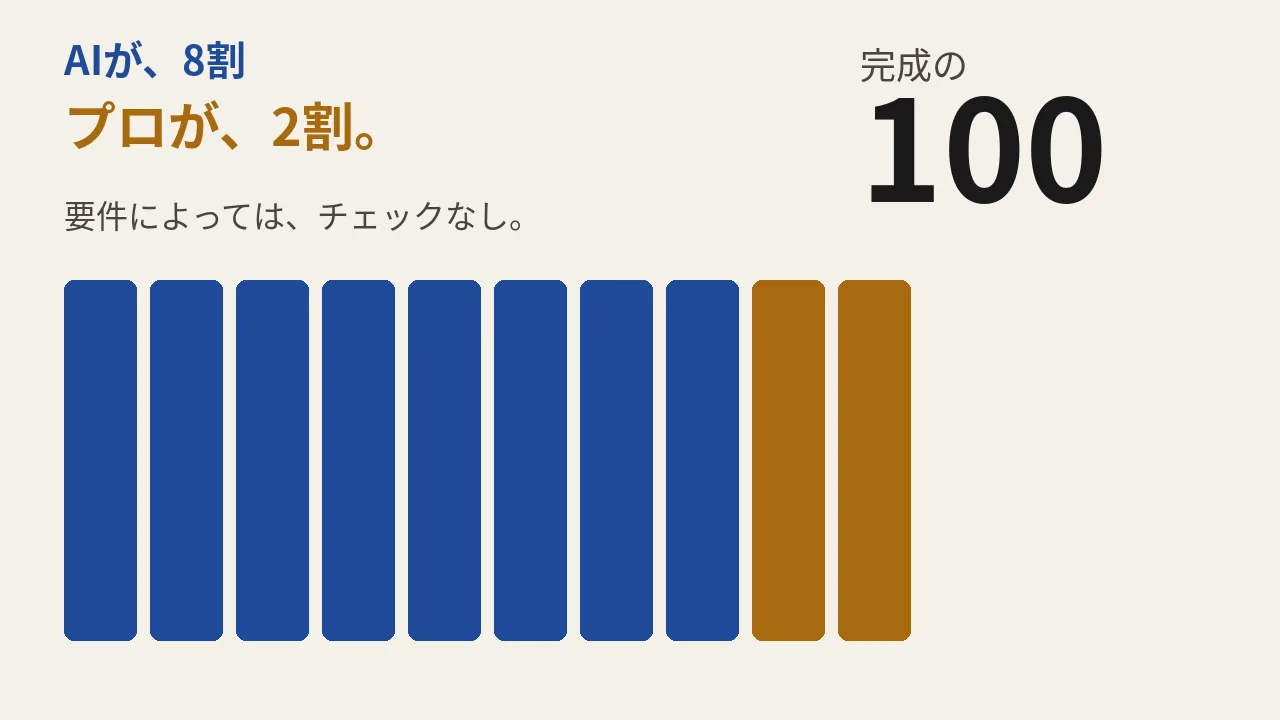
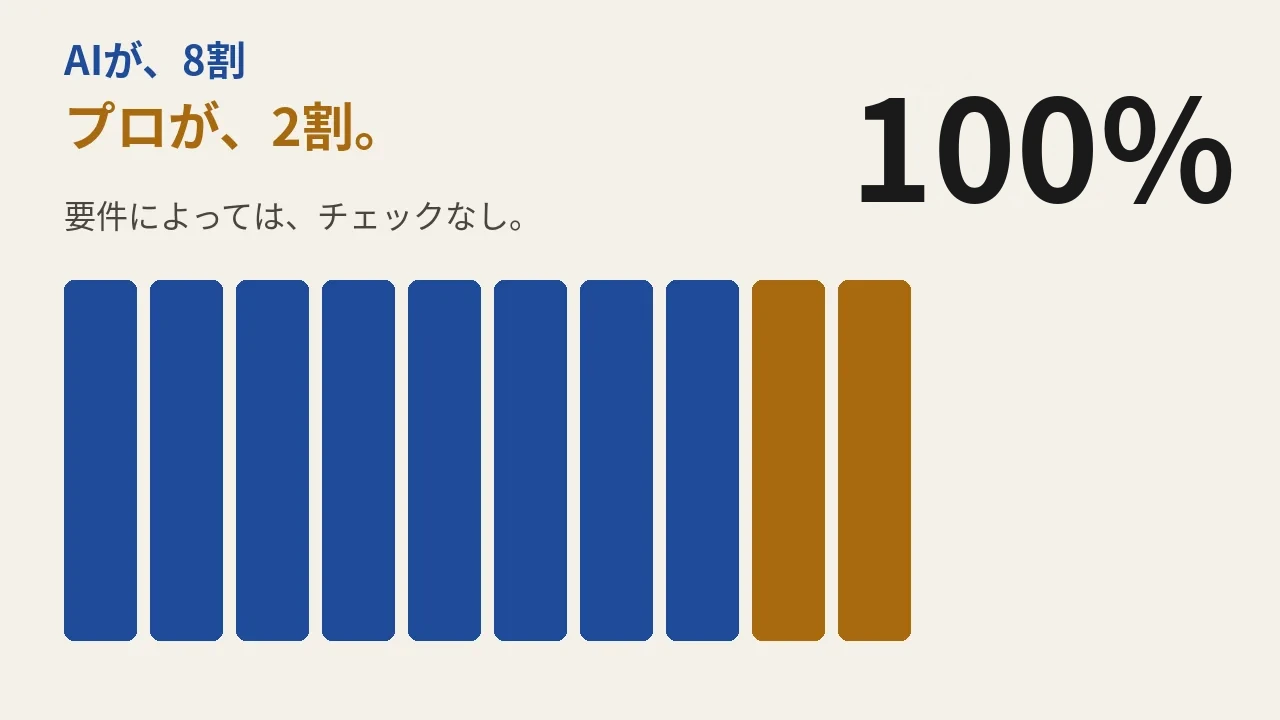
企画：カット05の完成表記を「100%」にする (#51)
判断②は B「100%」。判断①③④は A（現行）のまま記録する。絵コンテのおわりコマと、カット05の画面文言を揃えた。

Changed region(s): [[0.6562, 0.0611, 0.9688, 0.3056]]

diff --git a/20261112_プロが使えば8割、素人が使えば崩れる。AIの仕組みを外に出さない理由/plan.html b/20261112_プロが使えば8割、素人が使えば崩れる。AIの仕組みを外に出さない理由/plan.html
@@ -117,7 +117,7 @@ nav a.nav-need:hover{text-decoration:underline}
 <span>16:9・1920×1080・30fps</span>
 <span>本編 2:10＋エンドロゴ 5.5秒＝2:15.5</span>
 <span>本編 10カット＋ロゴ</span>
-<span>ナレーション案 590字／画面の文字 222字</span>
+<span>ナレーション案 590字／画面の文字 220字</span>
 <span>写真・動画ファイルはなし（図と文字のMG）</span>
 <span>BGM・効果音・ナレーション音声は未制作</span>
 <span>実速再生は未確認</span>
@@ -127,7 +127,7 @@ nav a.nav-need:hover{text-decoration:underline}
 </header>
 
 <nav><div class="in">
-<a class="nav-need" href="#decide">判断してほしい点（4）</a>
+<a href="#decide">判断の記録（4）</a>
 <a href="#claim">主張</a>
 <a href="#viewer">視聴者</a>
 <a href="#structure">構成と尺</a>
@@ -150,35 +150,35 @@ nav a.nav-need:hover{text-decoration:underline}
 <main>
 <section class="decide" id="decide">
 <h2>未確定事項と判断してほしい点</h2>
-<p class="small">ここだけが判断です。ほかの節は、決定済みの情報です。原稿とネタ案が食い違うところは原稿を画面に置き、選択肢を A／B で残しています。</p>
+<p class="small">4点とも、11/12 のユーザー判断で決まっています。ほかの節は、決定済みの情報です。</p>
 <ol class="decide-list">
-<li><span class="need">1</span><div>時間の見せ方。<b>A（現行）</b>：画面は「6時間」「20分ほど」。帯が縮み、灰色の線はなくなった長さの比喩。タイムコードにはしない。<b>B</b>：ネタ案の「6:00:00」から「0:20:00」。原稿は「ほど」なので、測った時刻に見える。<span class="where">該当：<a href="#cut-03">カット03</a></span></div></li>
-<li><span class="need">2</span><div>完成の表記。<b>A（現行）</b>：「完成の、100」。原稿の「完成形の100」。測定した達成率ではない。<b>B</b>：ネタ案の「100%」。測定値に見える。<span class="where">該当：<a href="#cut-05">カット05</a></span></div></li>
-<li><span class="need">3</span><div>8割の見出し。<b>A（現行）</b>：同じ8割でも、使う人で結果が変わる。原稿は、出力の質は指示する人の目と経験で決まると書いている。<b>B</b>：ネタ案の「AIの8割は誰でも出せる。残り2割が仕事」。原稿の「同じ道具を渡しても同じものは出ない」と食い違う。<span class="where">該当：<a href="#cut-06">カット06</a></span></div></li>
-<li><span class="need">4</span><div>03の生成動画。<b>A（現行）</b>：タイムラインのモーショングラフィックス。生成しない。<b>B</b>：フィルムが流れ込み、数本だけ並ぶ4秒の映像を、03の全面インサートにする。未承認。クレジットは未確認。承認後に企画側が用意する。<span class="where">該当：<a href="#swaps">差し替え候補</a></span></div></li>
+<li><span class="need">1</span><div>時間の見せ方。<b>A（現行）に決定（11/12 ユーザー判断）</b>。画面は「6時間」「20分ほど」。帯が縮み、灰色の線はなくなった長さの比喩。タイムコードにはしない。<b>B</b>：ネタ案の「6:00:00」から「0:20:00」。原稿は「ほど」なので、測った時刻に見える。<span class="where">該当：<a href="#cut-03">カット03</a></span></div></li>
+<li><span class="need">2</span><div>完成の表記。<b>B「100%」に決定（11/12 ユーザー判断）</b>。画面は「100%」。完成形の言い方で、達成率の測定値ではない。<span class="where">該当：<a href="#cut-05">カット05</a></span></div></li>
+<li><span class="need">3</span><div>8割の見出し。<b>A（現行）に決定（11/12 ユーザー判断）</b>。同じ8割でも、使う人で結果が変わる。原稿は、出力の質は指示する人の目と経験で決まると書いている。<b>B</b>：ネタ案の「AIの8割は誰でも出せる。残り2割が仕事」。原稿の「同じ道具を渡しても同じものは出ない」と食い違う。<span class="where">該当：<a href="#cut-06">カット06</a></span></div></li>
+<li><span class="need">4</span><div>03の生成動画。<b>A（現行）に決定（11/12 ユーザー判断）</b>。タイムラインのモーショングラフィックス。生成しない。<b>B</b>：フィルムが流れ込み、数本だけ並ぶ4秒の映像を、03の全面インサートにする。未承認。クレジットは未確認。承認後に企画側が用意する。<span class="where">該当：<a href="#swaps">差し替え候補</a></span></div></li>
 </ol>
 </section>
 
 <h2 id="claim">この動画で伝える一文</h2>
 <div class="box accent"><p class="lead">「AIの仕組みを渡せば、誰が使っても同じ成果が出る」と思っている人に、成果を決めるのは仕組みそのものより、使う人の判断だと伝え、同じ8割でも判断を手放さない人が仕上げれば届き、経験のない人が触ると崩れる、だから仕組みは外に出さず成果物で渡す、という本人の結論を残す。</p></div>
-<p>残る気持ちは、判断と責任は手元に残り、成果物で渡した方が作った人の価値を守れる、という本人の確信です。全員の仕事がこれで成功する、という話にはしません。6時間、20分ほど、8割、2割、100は、原稿の言い方です。品質の測定値ではありません。</p>
+<p>残る気持ちは、判断と責任は手元に残り、成果物で渡した方が作った人の価値を守れる、という本人の確信です。全員の仕事がこれで成功する、という話にはしません。6時間、20分ほど、8割、2割、100%は、原稿の言い方です。品質の測定値ではありません。</p>
 
 <h2 id="viewer">視聴者</h2>
 <p>AIで仕事の仕組みを作り、渡せば相手も同じ成果が出ると思っている人。仕組みだけ納品すれば足りると思っている人。見終わったあと、誰が使うかを先に決め、判断は手放さず、成果物で渡す、という本人のやり方を持って帰れる人。</p>
 
 <h2 id="structure">構成と尺</h2>
-<p>声は経緯、留保、結論を運びます。文字は決め語と、短い留保です。図は「6時間が20分ほどへ縮む」「8本にプロが2本足して100で止まる」「同じ8本が崩れる」を運びます。説明の全文は画面に載せません。</p>
-<p>尺はナレーション案の字数から決めました。声 590字、画面の文字 222字（空白と改行を除く。句読点は数える）。声の見積もりは 590字 ÷ 5.6字/秒 ≒ 105秒です。5.6字/秒は、直前の作品でナレーションの実測がおよそその速さだったことによる目安です。図を見る間を足して本編 130秒、エンドロゴ 5.5秒で 2分15.5秒。7字/秒は画面を読む目安で、声の尺には使っていません。等速で読む時間と見る時間が足りるかは、制作側の再生で判断します。実速再生は未確認です。</p>
+<p>声は経緯、留保、結論を運びます。文字は決め語と、短い留保です。図は「6時間が20分ほどへ縮む」「8本にプロが2本足して100%で止まる」「同じ8本が崩れる」を運びます。説明の全文は画面に載せません。</p>
+<p>尺はナレーション案の字数から決めました。声 590字、画面の文字 220字（空白と改行を除く。句読点は数える）。声の見積もりは 590字 ÷ 5.6字/秒 ≒ 105秒です。5.6字/秒は、直前の作品でナレーションの実測がおよそその速さだったことによる目安です。図を見る間を足して本編 130秒、エンドロゴ 5.5秒で 2分15.5秒。7字/秒は画面を読む目安で、声の尺には使っていません。等速で読む時間と見る時間が足りるかは、制作側の再生で判断します。実速再生は未確認です。</p>
 <p>01の思い込みと、02の「使う人の判断」、10の「判断は、手放さない。」だけで、同じ主張が伝わることを確かめました。尺が足りなければ、04の順番の説明から削ります。05の留保、06の崩れ、07の条件、08の納品、10の結論は残します。</p>
 <div class="tablewrap"><table>
 <thead><tr><th>カット</th><th>区間</th><th>役割</th><th>声／画面</th></tr></thead>
 <tbody>
 <tr><td><a href="#cut-01">01 渡せば、同じ成果。</a></td><td>0:00–0:10（10秒）</td><td>思い込み</td><td>44字／9字</td></tr>
 <tr><td><a href="#cut-02">02 使う人の、判断。</a></td><td>0:10–0:21（11秒）</td><td>主張</td><td>52字／22字</td></tr>
-<tr><td><a href="#cut-03">03 6時間が、20分ほどに。</a> <span class="need">要判断 1</span></td><td>0:21–0:37（16秒）</td><td>根拠の見せ場</td><td>66字／10字</td></tr>
+<tr><td><a href="#cut-03">03 6時間が、20分ほどに。</a></td><td>0:21–0:37（16秒）</td><td>根拠の見せ場</td><td>66字／10字</td></tr>
 <tr><td><a href="#cut-04">04 先に、集める。</a></td><td>0:37–0:47（10秒）</td><td>根拠</td><td>45字／34字</td></tr>
-<tr><td><a href="#cut-05">05 8割に、2割。</a> <span class="need">要判断 2</span></td><td>0:47–1:00（13秒）</td><td>根拠</td><td>54字／34字</td></tr>
-<tr><td><a href="#cut-06">06 同じ8割が、崩れる。</a> <span class="need">要判断 3</span></td><td>1:00–1:15（15秒）</td><td>主張の見せ場</td><td>62字／11字</td></tr>
+<tr><td><a href="#cut-05">05 8割に、2割。</a></td><td>0:47–1:00（13秒）</td><td>根拠</td><td>54字／32字</td></tr>
+<tr><td><a href="#cut-06">06 同じ8割が、崩れる。</a></td><td>1:00–1:15（15秒）</td><td>主張の見せ場</td><td>62字／11字</td></tr>
 <tr><td><a href="#cut-07">07 誰が、使うか。</a></td><td>1:15–1:27（12秒）</td><td>留保</td><td>53字／31字</td></tr>
 <tr><td><a href="#cut-08">08 仕組みは、出さない。</a></td><td>1:27–1:41（14秒）</td><td>主張</td><td>68字／24字</td></tr>
 <tr><td><a href="#cut-09">09 プロにしか、見えない。</a></td><td>1:41–1:54（13秒）</td><td>留保</td><td>65字／21字</td></tr>
@@ -188,7 +188,7 @@ nav a.nav-need:hover{text-decoration:underline}
 
 <h2 id="cuts">カット表・絵コンテ</h2>
 <p>各カットに「はじめ」「おわり」の2コマがあります。コマ画は構図のラフ（1280×720、明るい紙色）で、完成映像の躍動感を確かめたものではありません。番号と「はじめ／おわり」は、このページの見出しとキャプションにだけあります。秒数・位置・角度は参考値です。実装の手順とパラメータは制作側の裁量です。画面全体を大きく動かすこと、可読性、留保は緩めません。動きの名前は<a href="#motion">動きの言語</a>、記号は<a href="#symbols">記号と色</a>です。</p>
-<p>図の背骨は一本です。青い帯が縮み、その青が8本のバーになる。プロの2本が足されて100で止まり、同じ8本だけが、次のカットで倒れる。</p>
+<p>図の背骨は一本です。青い帯が縮み、その青が8本のバーになる。プロの2本が足されて100%で止まり、同じ8本だけが、次のカットで倒れる。</p>
 
 <section class="cut" id="cut-01">
 <div class="cuthead"><div class="num">01</div><div>
@@ -247,7 +247,7 @@ nav a.nav-need:hover{text-decoration:underline}
 
 <section class="cut" id="cut-03">
 <div class="cuthead"><div class="num">03</div><div>
-<h3>6時間が、20分ほどに。 <span class="need">要判断 1</span></h3>
+<h3>6時間が、20分ほどに。</h3>
 <p class="small">0:21–0:37 / 16秒　・　根拠の見せ場　・　声 66字／画面 10字</p>
 </div></div>
 <div class="frames">
@@ -302,27 +302,27 @@ nav a.nav-need:hover{text-decoration:underline}
 
 <section class="cut" id="cut-05">
 <div class="cuthead"><div class="num">05</div><div>
-<h3>8割に、2割。 <span class="need">要判断 2</span></h3>
-<p class="small">0:47–1:00 / 13秒　・　根拠　・　声 54字／画面 34字</p>
+<h3>8割に、2割。</h3>
+<p class="small">0:47–1:00 / 13秒　・　根拠　・　声 54字／画面 32字</p>
 </div></div>
 <div class="frames">
 <figure><a href="assets/storyboard/cut-05-start.webp"><img src="assets/storyboard/cut-05-start.webp" width="1280" height="720" alt="カット05 はじめ。AIが、8割。青いバーが8本。"></a><figcaption><b>はじめ</b>　「AIが、8割」。同じ太さの青いバーが8本。</figcaption></figure>
-<figure><a href="assets/storyboard/cut-05-end.webp"><img src="assets/storyboard/cut-05-end.webp" width="1280" height="720" alt="カット05 おわり。琥珀の2本が足され、完成の100。"></a><figcaption><b>おわり</b>　琥珀の2本が足される。「完成の 100」。灰で「要件によっては、チェックなし。」</figcaption></figure>
+<figure><a href="assets/storyboard/cut-05-end.webp"><img src="assets/storyboard/cut-05-end.webp" width="1280" height="720" alt="カット05 おわり。琥珀の2本が足され、100%。"></a><figcaption><b>おわり</b>　琥珀の2本が足される。「100%」。灰で「要件によっては、チェックなし。」</figcaption></figure>
 </div>
 <div class="details"><div>
 <div class="label">画面の文字</div>
-<p class="words">AIが、8割<br>プロが、2割。<br>完成の<br>100<br>要件によっては、チェックなし。</p>
+<p class="words">AIが、8割<br>プロが、2割。<br>100%<br>要件によっては、チェックなし。</p>
 <div class="label">ナレーション案</div>
 <p class="voice">AIに8割を作らせ、最後の2割はプロが仕上げます。手放さないのは、何を残すかの判断と、仕上がりへの責任です。</p>
 <div class="label">字組みと構図</div>
-<p>はじめは左上の語と、中央の8本。おわりは左に2行、右上に巨大な「100」、下に10本。留保は灰の1行で、バーの上に残る。</p>
+<p>はじめは左上の語と、中央の8本。おわりは左に2行、右上に巨大な「100%」、下に10本。留保は灰の1行で、バーの上に残る。</p>
 </div><div>
 <div class="label">主役の語と、動き・カメラ</div>
-<p>主役は「100」。8本はAIが作る側、琥珀の2本はプロが手放さない側です。100は完成形の言い方で、達成率の測定値ではありません。パーセント記号は置きません。</p>
+<p>主役は「100%」。8本はAIが作る側、琥珀の2本はプロが手放さない側です。100%は完成形の言い方で、達成率の測定値ではありません。</p>
 <ul>
 <li>0.0–2.0秒：04のカードが、同じ太さの縦のバー8本に立ち上がる（E_SLAM）。</li>
 <li>2.0–7.0秒：「AIが、8割」が行マスク。読む間、バーの列ごとがゆっくり寄る（E_DRIFT）。文字は別の層。</li>
-<li>7.0–10秒：琥珀の2本が上から落ち、列の右に収まって止まる。着地で「100」が着く（E_SLAM）。</li>
+<li>7.0–10秒：琥珀の2本が上から落ち、列の右に収まって止まる。着地で「100%」が着く（E_SLAM）。</li>
 <li>10–13秒：灰の留保が行マスクで入る。列は完成したまま、06へ渡す。カメラは列の全長が見える高さへ引く。</li>
 </ul>
 </div></div>
@@ -330,7 +330,7 @@ nav a.nav-need:hover{text-decoration:underline}
 
 <section class="cut" id="cut-06">
 <div class="cuthead"><div class="num">06</div><div>
-<h3>同じ8割が、崩れる。 <span class="need">要判断 3</span></h3>
+<h3>同じ8割が、崩れる。</h3>
 <p class="small">1:00–1:15 / 15秒　・　主張の見せ場　・　声 62字／画面 11字</p>
 </div></div>
 <div class="frames">
@@ -540,7 +540,7 @@ nav a.nav-need:hover{text-decoration:underline}
 <div class="tablewrap"><table>
 <thead><tr><th>段</th><th>大きさ</th><th>太さ</th><th>用途</th></tr></thead>
 <tbody>
-<tr><td>Display</td><td>200–280px</td><td>900</td><td>判断。100。崩れる。6時間。20分ほど</td></tr>
+<tr><td>Display</td><td>200–280px</td><td>900</td><td>判断。100%。崩れる。6時間。20分ほど</td></tr>
 <tr><td>H1</td><td>120–160px</td><td>700</td><td>各カットの決め語</td></tr>
 <tr><td>Body</td><td>48–64px</td><td>400</td><td>留保、思い込み、補足の1行</td></tr>
 </tbody></table></div>
@@ -583,7 +583,7 @@ nav a.nav-need:hover{text-decoration:underline}
 <tr><td>青い横帯</td><td>素材の長さ。縮むと、AIが並べた区間</td><td>03・04（カードへ）</td></tr>
 <tr><td>青い縦バー ×8</td><td>AIが作る8割</td><td>05・06・07（小さく）</td></tr>
 <tr><td>琥珀の縦バー ×2</td><td>プロが仕上げる2割。判断と責任</td><td>05</td></tr>
-<tr><td>墨の「100」</td><td>完成形の言い方。測定値ではない</td><td>05</td></tr>
+<tr><td>墨の「100%」</td><td>完成形の言い方。測定値ではない</td><td>05</td></tr>
 <tr><td>赤と、右へ倒れたバー</td><td>経験のない人が使うと、成果が崩れる</td><td>06</td></tr>
 <tr><td>灰の文字</td><td>思い込み、留保、「ほど」</td><td>01・02・03・04・05・06・08・09</td></tr>
 <tr><td>枠</td><td>誰が使うかを、先に決める口</td><td>07</td></tr>
@@ -604,7 +604,7 @@ nav a.nav-need:hover{text-decoration:underline}
 </ul>
 </div>
 
-<h2 id="swaps">差し替え候補 <span class="need">要判断 4</span></h2>
+<h2 id="swaps">差し替え候補 <span class="chip">Aに決定</span></h2>
 <div class="box swap">
 <p><span class="tag t-un">未承認</span>現行は、タイムラインのモーショングラフィックスです。生成はしていません。</p>
 <p>候補は、明るいスタジオで、机の上にフィルムの帯が流れ込み、数本だけが抜き出されて一列に並ぶ、4秒の映像です。置くなら03の「6時間が20分ほどに」の直後、全面のインサートです。声は続け、インサートの間は文字を退け、短い帯の画面へ戻ります。小さな窓にはしません。</p>
@@ -623,7 +623,7 @@ nav a.nav-need:hover{text-decoration:underline}
 <h2 id="sound">音</h2>
 <div class="box">
 <p><span class="tag t-un">未制作</span>BGMは、この作品のために作ります。過去の作品の曲を、検討なしに使いません。</p>
-<p>方向は、乾いたキック、短いベース、輪郭のあるプラックです。目安は118–124 BPM。03の帯が着地する所、05の100が止まる所、06の倒れる所にアクセントを置きます。06の Whip pan の前に、0.3秒だけ音を抜いてよいです。長い無音では埋めません。遅い曲に合わせて、映像の動きを弱めません。</p>
+<p>方向は、乾いたキック、短いベース、輪郭のあるプラックです。目安は118–124 BPM。03の帯が着地する所、05の100%が止まる所、06の倒れる所にアクセントを置きます。06の Whip pan の前に、0.3秒だけ音を抜いてよいです。長い無音では埋めません。遅い曲に合わせて、映像の動きを弱めません。</p>
 <p>BGMはエンドロゴの終わり（2:15.5）まで覆い、保持の1.5秒で収めます。効果音は、2本が収まる音と、バーが倒れる音を任意で足してよいです。ファイルはまだありません。</p>
 <p>ナレーションは、各カットの案を原稿にします。声の選定は制作側です。読みが割れやすい語は、かなで渡してよいです。8割（はちわり）、2割（にわり）、20分（にじっぷん）、20通り（にじゅっとおり）。「そして」はそのまま読みます。この企画書は、音声生成の許可ではありません。</p>
 <p>有料の音楽生成を比較するときは、品質、時間、費用の理由を一行残して選びます。料金が未確認の生成はしません。候補の名は、Lyria 3.5（<code>GEMINI_API_KEY</code>）です。実行時に、モデルIDと提供状況と料金を確認します。キーの値は、コードにもこの指示にも書きません。</p>

diff --git a/20261112_プロが使えば8割、素人が使えば崩れる。AIの仕組みを外に出さない理由/references.md b/20261112_プロが使えば8割、素人が使えば崩れる。AIの仕組みを外に出さない理由/references.md
@@ -19,8 +19,9 @@
 | 6時間 | 6時間の素材から | 映像のプロが AI に見せた撮影素材の長さ。編集作業にかかった時間ではない | 03 |
 | 20分ほど | 20分ほどの映像 | その素材から AI が並べた映像の長さ。「ほど」があり、20分00秒という計測値ではない | 03 |
 | 8割 | AI に8割を作らせる。見えている8割 | 作る割合の言い方。品質スコア、成功率、アンケートではない | 05・06・07 |
-| 2割 | 最後の2割。完成形の100との差 | プロが仕上げる残り。測った工数の比率ではない | 05 |
-| 100 | 完成形の100 | 8割との対比で完成を指す言い方。達成率の測定値ではない | 05・07 |
+| 2割 | 最後の2割。完成形の100%との差 | プロが仕上げる残り。測った工数の比率ではない | 05 |
+| 100% | 完成形の言い方 | 8割との対比で完成を指す言い方。達成率の測定値ではない | 05 |
+| 100 | 8割と100の差 | 完成との差を指す言い方。達成率の測定値ではない | 07 |
 | 2年間 | 私たちが2年間で痛いほど見てきた | 筆者たちが見てきた期間。業績の年数ではない | 声のみ（01） |
 | 20通り | 「そして」という接続詞だけで20通りの読み方がある、とその人が言う | ナレーションの読みの話として伝えられた数。筆者が数えた計測ではない | 09 |
 
@@ -40,21 +41,21 @@
 | 主張 | 出力の質は、指示を出す人の目と経験で決まる | 成果を決めるのは、／仕組みより、／使う人の判断。 | 02 | 冒頭で主張を言う。仕組みそのものを悪にしない |
 | 根拠 | 6時間の素材から20分ほどの映像が並ぶ。不要を削るより、必要な部分を拾い、ストーリーの形に並べる | 素材／6時間／20分ほど | 03 | タイムコードにはしない。編集ソフトの画面は出さない |
 | 根拠 | 記事も、先に素材を集め、書ける記事を AI に書かせる順番に変わった。以前は構成を固めてから集めていた | 以前は、構成から。／構成／収集／執筆／先に、集める。／書ける記事を、書かせる。 | 04 | 記事の紙面や顧客の名前は出さない |
-| 根拠 | AI に8割を作らせ、最後の2割をプロが仕上げる。手放さないのは、何を残すかの判断と、仕上がりへの責任。要件によってはノーチェックで出せるものもある | AIが、8割／プロが、2割。／完成の／100／要件によっては、チェックなし。 | 05 | 8本に2本を足して止まる図は、8割と2割の言い方。100% とは書かない。留保は灰で残す |
+| 根拠 | AI に8割を作らせ、最後の2割をプロが仕上げる。手放さないのは、何を残すかの判断と、仕上がりへの責任。要件によってはノーチェックで出せるものもある | AIが、8割／プロが、2割。／100%／要件によっては、チェックなし。 | 05 | 8本に2本を足して止まる図は、8割と2割の言い方。100%は完成形の言い方で、達成率の測定値ではない。留保は灰で残す |
 | 主張 | 同じ道具を新人に渡しても同じものは出ない。熟練者の仕組みは、経験のない人が使うと崩れる | 同じ8割。／素人／崩れる。 | 06 | 05 と同じ8本。琥珀の2本はない。人の姿は描かない。「素人」は原稿の見出しの役割 |
 | 留保 | 誰が使う前提かを先に決める。中学生や高校生が使っても同じものが出るなら本当にすごい。そのためには判断まで全部入れ込む。8割と100の差はだいたいそこ | 誰が、使うか。／判断まで、入れないと。／8割と100の差は、ここ。 | 07 | 中学生・高校生は声だけ。人物としては描かない |
 | 主張 | 仕組みはお客さんに使わせない。届けるのは記事だけ。自分たちのための道具なら、止まっても我慢できる。外に出していないから割り切れる | 仕組みは、出さない。／成果物を、渡す。／差は、歴然。 | 08 | 「差は歴然」は、並んだ状態で渡せば替えられない、という原稿の勧め。製品名は出さない |
 | 留保 | 筆者は言葉のプロではない。文章は読める。何が読みにくいかは、言葉のプロの指摘で分かる。「そして」に20通りの読みがある、と言われた | プロにしか、見えない。／「そして」／20通り。 | 09 | ナレーターの名前、金額、所属は出さない。20本の線は読みの違いの比喩で、計測のグラフではない |
 | 本人の結論 | プロだけでは仕組みはきれいに組めない。エンジニアだけでは良し悪しが分からない。発注と受注ではたいていうまくいかない。一緒に考え、一緒に回すとき、勝ち筋が見える | プロ／エンジニア／一心同体で、組む。／判断は、手放さない。 | 10 | 問いかけで終えない。競合への壁、という言い方は声に残し、画面の決め語にはしない |
 
-ナレーション案の全文は plan.html の各カット。字数は plan.html「構成と尺」（声 590 字、画面 222 字。空白と改行を除き、句読点は数える）。
+ナレーション案の全文は plan.html の各カット。字数は plan.html「構成と尺」（声 590 字、画面 220 字。空白と改行を除き、句読点は数える）。
 
 ## 原稿を優先した点
 
-ネタ案と原稿が食い違うところは、原稿の言い方を画面と声に置いている。選ぶ余地は plan.html の「未確定事項と判断してほしい点」。
+ネタ案と原稿が食い違うところは、11/12 のユーザー判断を plan.html の「未確定事項と判断してほしい点」に記録している。
 
 - ネタ案の「6:00:00」「0:20:00」は、原稿の「6時間」「20分ほど」にする。タイムコードにすると、測った時刻に見える。
-- ネタ案の「100%」は、原稿の「完成形の100」にする。パーセントにすると、測定した達成率に見える。
+- 判断②でB「100%」を採用（11/12）。測定した達成率ではなく完成形の言い方として扱う
 - ネタ案の切り口「AIの8割は誰でも出せる」は使わない。原稿は、同じ道具を渡しても同じものは出ず、出力の質は指示する人の目と経験で決まると書いている。
 
 ## 画面にしないこと

diff --git a/20261112_プロが使えば8割、素人が使えば崩れる。AIの仕組みを外に出さない理由/effects-direction.md b/20261112_プロが使えば8割、素人が使えば崩れる。AIの仕組みを外に出さない理由/effects-direction.md
@@ -34,7 +34,7 @@ t89（3D空間の字幕）、s11（一字ずつ弾む）、s13（字が崩れて
 
 | 候補 | 使うところ | 採る仕組み | 見本から採らないもの |
 |---|---|---|---|
-| s16 歌詞が跳ねる | 02 の「判断。」、05 の「100」、06 の「崩れる。」、08 の「渡す。」、10 の「手放さない。」 | 語の塊が着地する。決め語を、字の形を保ったまま大きく出す | 1 字ずつの跳ね、可読性を失う回転、語の重なり、暗い高架。このフレームでは強い語の回転は見えていない |
+| s16 歌詞が跳ねる | 02 の「判断。」、05 の「100%」、06 の「崩れる。」、08 の「渡す。」、10 の「手放さない。」 | 語の塊が着地する。決め語を、字の形を保ったまま大きく出す | 1 字ずつの跳ね、可読性を失う回転、語の重なり、暗い高架。このフレームでは強い語の回転は見えていない |
 | s15 奥行きのある横スクロール | 03 の Dolly in と、05・06 でカメラが寄るとき | 近くの図は大きく動き、文字の層は別の速さにする | 暗い背景、章題、山と矢印 |
 | s12 線が描かれていく図 | 08 の境界線、09 の20本の線 | 線が順に描かれて、関係が見えてから次へ渡る | このフレームは完成図が見えていない。手順図の見本としては未確認。暗い背景 |
 | p26 ドミノ倒し | 06 の8本が右へ順に倒れる | 前の1本が倒れた角度で、次の1本が倒れ始める | 写真の帯、最後の白の光、実時間の物理。角度はフレーム時刻から決める。このフレームでは倒れる途中は見えていない |
@@ -44,7 +44,7 @@ t89（3D空間の字幕）、s11（一字ずつ弾む）、s13（字が崩れて
 
 | 候補 | 理由 |
 |---|---|
-| s86 数字のグラフが伸びる | このフレームは「40%」「合計 0」を測定値のように出していた。8割、2割、100 は作る割合と完成の言い方で、実績のグラフではない |
+| s86 数字のグラフが伸びる | このフレームは「40%」「合計 0」を測定値のように出していた。8割、2割、100% は作る割合と完成の言い方で、実績のグラフではない |
 | s14 数字が回って止まる | 桁が回って止まる演出は、スコアの発表に見える。6時間と20分ほどは、素材の長さのラベル |
 | g16 放射状のぶれ | catalog は一瞬の白を含む。このフレームでは白は見えず、全ループは未確認。06 の Whip pan はカメラの振りで、白は入れない |
 | t89 3D空間で動く字幕 | 説明は、字を3D空間に置く。文字をテクスチャにすると、タイポグラフィが字幕になる。文字は DOM の層。デモは未確認 |
